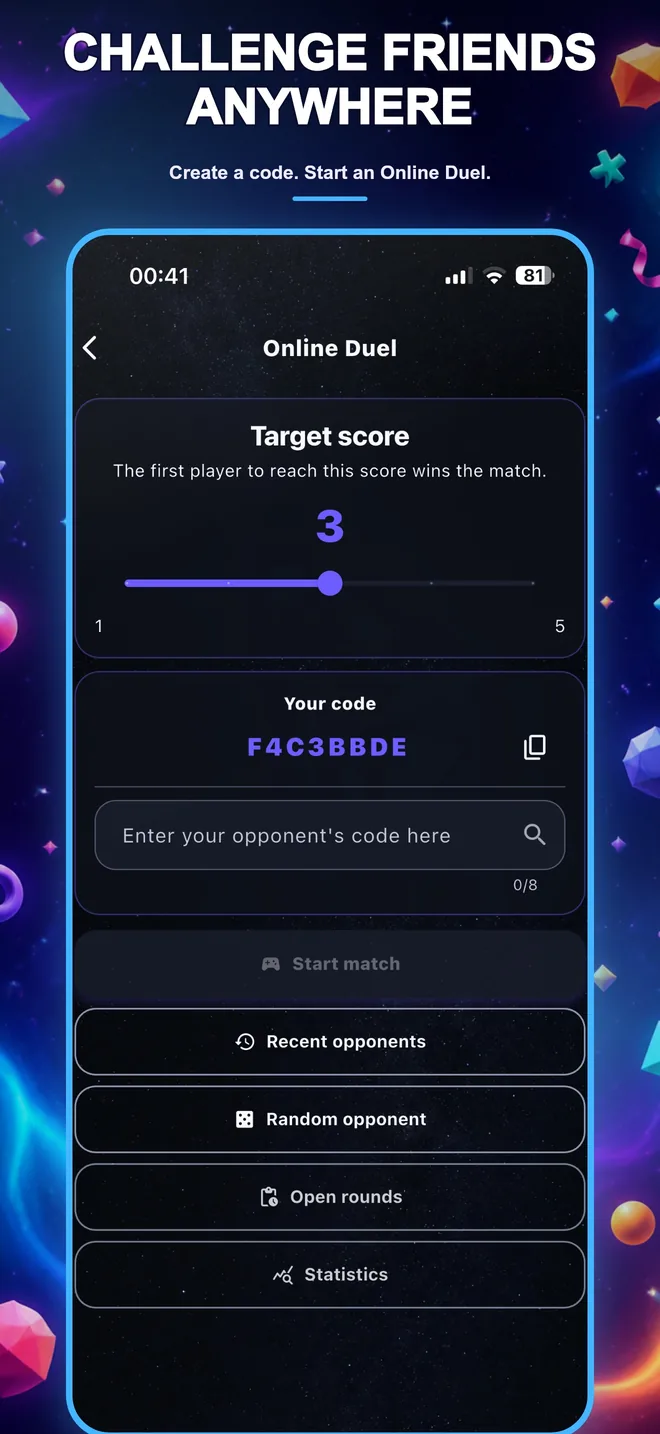
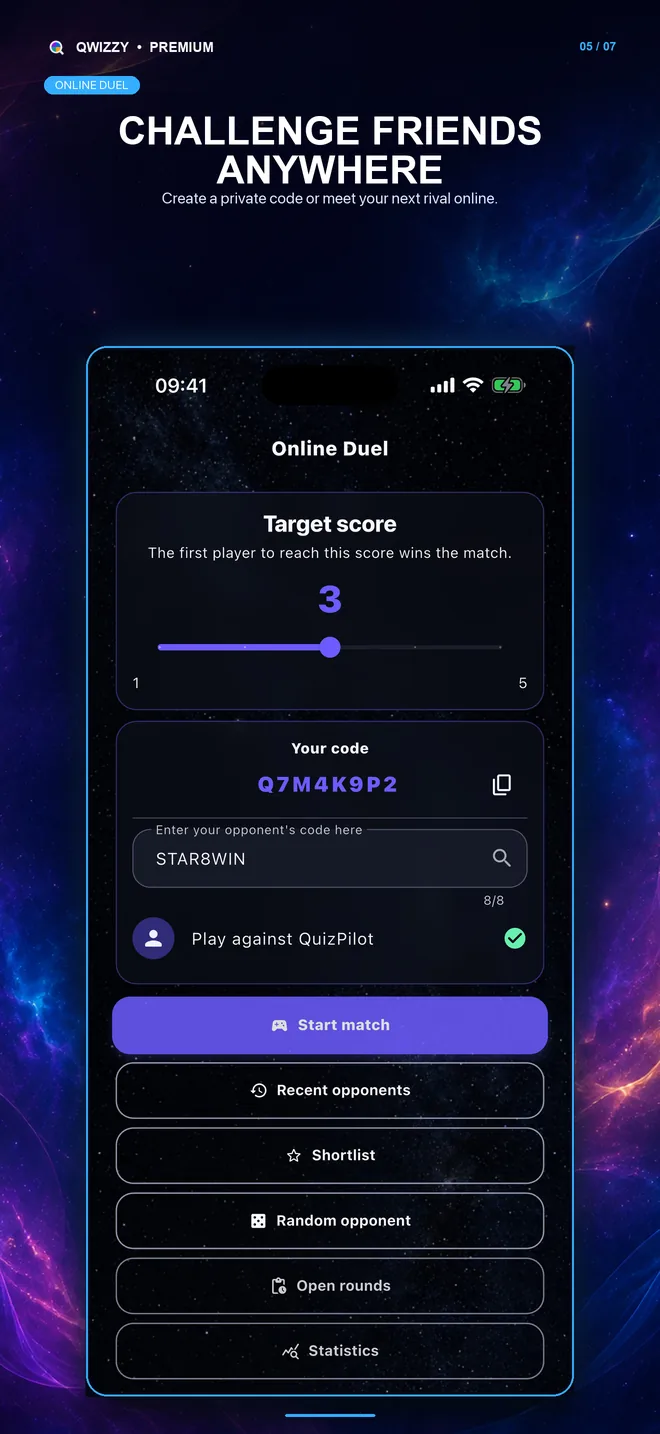
Update Qwizzy website screenshots

diff --git a/public/assets/js/i18n.js b/public/assets/js/i18n.js
@@ -178,12 +178,20 @@ const rows = {
   "Seven ways to play": ["Sieben Spielmöglichkeiten", "Siete formas de jugar", "Sette modi di giocare"],
   "Pick your challenge.": ["Wähle deine Herausforderung.", "Elige tu desafío.", "Scegli la tua sfida."],
   "Play Classic, Sudden Death, 3 Hearts, local or online duels, Last Man Standing and Moderator mode.": ["Spiele Classic, Sudden Death, 3 Hearts, lokale oder Online-Duelle, Last Man Standing und den Moderatormodus.", "Juega a Classic, Sudden Death, 3 Hearts, duelos locales o en línea, Last Man Standing y el modo Moderador.", "Gioca a Classic, Sudden Death, 3 Hearts, duelli locali o online, Last Man Standing e modalità Moderatore."],
+  "3 Hearts": ["3 Herzen", "3 corazones", "3 cuori"],
+  "Play smart. Stay in the game.": ["Spiel clever. Bleib im Spiel.", "Juega con inteligencia. Sigue en la partida.", "Gioca d'astuzia. Resta in partita."],
+  "Three lives, a running timer and a 50:50 lifeline turn every answer into a tactical choice.": ["Drei Leben, ein laufender Timer und ein 50:50-Joker machen jede Antwort zu einer taktischen Entscheidung.", "Tres vidas, un temporizador en marcha y un comodín 50:50 convierten cada respuesta en una decisión táctica.", "Tre vite, un timer attivo e un aiuto 50:50 trasformano ogni risposta in una scelta tattica."],
+  "Your style": ["Dein Stil", "Tu estilo", "Il tuo stile"],
+  "Make every question your own.": ["Mach jede Frage zu deiner.", "Haz tuya cada pregunta.", "Rendi ogni domanda davvero tua."],
+  "Mix question and answer colors to create a quiz experience that feels unmistakably yours.": ["Kombiniere Farben für Fragen und Antworten und gestalte ein Quiz, das unverkennbar zu dir passt.", "Combina los colores de preguntas y respuestas para crear una experiencia de juego inconfundiblemente tuya.", "Combina i colori di domande e risposte per creare un'esperienza quiz inconfondibilmente tua."],
   "Timed rounds": ["Runden auf Zeit", "Rondas contrarreloj", "Round a tempo"],
   "Think fast. Score big.": ["Schnell denken. Groß punkten.", "Piensa rápido. Consigue muchos puntos.", "Pensa in fretta. Fai tanti punti."],
   "Questions span every topic, while the timer and lifelines keep each round moving.": ["Die Fragen decken jedes Thema ab, während Timer und Joker jede Runde in Bewegung halten.", "Las preguntas abarcan todos los temas, mientras el temporizador y los comodines mantienen el ritmo de cada ronda.", "Le domande spaziano tra tutti gli argomenti, mentre il timer e gli aiuti mantengono alto il ritmo di ogni round."],
   "Sudden Death": ["Sudden Death", "Muerte súbita", "Sudden Death"],
   "One mistake. Game over.": ["Ein Fehler. Spiel vorbei.", "Un error. Fin de la partida.", "Un errore. Partita finita."],
   "Every answer counts in the most unforgiving solo mode. Stay sharp and chase a new high score.": ["Im härtesten Solomodus zählt jede Antwort. Bleib konzentriert und jage einen neuen Highscore.", "Cada respuesta cuenta en el modo individual más exigente. Mantente alerta y consigue una nueva puntuación récord.", "Ogni risposta conta nella modalità in solitaria più spietata. Resta concentrato e punta a un nuovo record."],
+  "One life. Every second counts.": ["Ein Leben. Jede Sekunde zählt.", "Una vida. Cada segundo cuenta.", "Una vita. Ogni secondo conta."],
+  "Ten seconds, one answer and no room for mistakes. Stay sharp and chase a new high score.": ["Zehn Sekunden, eine Antwort und kein Platz für Fehler. Bleib konzentriert und jage einen neuen Highscore.", "Diez segundos, una respuesta y ningún margen de error. Mantente alerta y consigue una nueva puntuación récord.", "Dieci secondi, una risposta e nessun margine d'errore. Resta concentrato e punta a un nuovo record."],
   "Online Duel": ["Online-Duell", "Duelo en línea", "Duello online"],
   "Challenge friends anywhere.": ["Fordere Freunde überall heraus.", "Desafía a tus amigos estés donde estés.", "Sfida gli amici ovunque."],
   "Create a code, invite a friend or find a random opponent and play a round whenever it suits you.": ["Erstelle einen Code, lade einen Freund ein oder finde einen zufälligen Gegner und spiele eine Runde, wann immer es dir passt.", "Crea un código, invita a un amigo o encuentra un rival al azar y juega una ronda cuando quieras.", "Crea un codice, invita un amico o trova un avversario casuale e gioca un round quando vuoi."],
@@ -239,12 +247,15 @@ const rows = {
   "See the products": ["Produkte ansehen", "Ver los productos", "Scopri i prodotti"],
   "Skip to content": ["Zum Inhalt springen", "Saltar al contenido", "Vai al contenuto"],
   "Generis Data Base crest": ["Wappen von Generis Data Base", "Escudo de Generis Data Base", "Stemma di Generis Data Base"],
-  "Qwizzy overview showing its available quiz modes": ["Qwizzy-Übersicht mit den verfügbaren Spielmodi", "Vista general de Qwizzy con los modos de juego disponibles", "Panoramica di Qwizzy con le modalità di gioco disponibili"],
+  "Updated Qwizzy home screen showing its available quiz modes": ["Aktualisierter Qwizzy-Startbildschirm mit den verfügbaren Spielmodi", "Pantalla de inicio actualizada de Qwizzy con los modos de juego disponibles", "Schermata iniziale aggiornata di Qwizzy con le modalità di gioco disponibili"],
+  "A Qwizzy 3 Hearts round with timer and active 50:50 lifeline": ["Eine Qwizzy-Runde in 3 Herzen mit Timer und aktivem 50:50-Joker", "Una ronda de 3 corazones de Qwizzy con temporizador y comodín 50:50 activo", "Un round 3 cuori di Qwizzy con timer e aiuto 50:50 attivo"],
+  "A customized Qwizzy question screen with individually colored cards": ["Ein individuell gestalteter Qwizzy-Fragebildschirm mit verschiedenfarbigen Karten", "Una pantalla de preguntas personalizada de Qwizzy con tarjetas de distintos colores", "Una schermata domanda personalizzata di Qwizzy con schede di colori diversi"],
+  "A challenging timed Sudden Death question in Qwizzy": ["Eine anspruchsvolle Sudden-Death-Frage auf Zeit in Qwizzy", "Una exigente pregunta contrarreloj de Muerte súbita en Qwizzy", "Una difficile domanda a tempo di Sudden Death in Qwizzy"],
   "Qwizzy screen showing the available quiz modes": ["Qwizzy-Bildschirm mit den verfügbaren Spielmodi", "Pantalla de Qwizzy con los modos de juego disponibles", "Schermata di Qwizzy con le modalità di gioco disponibili"],
   "A timed geography question in Qwizzy": ["Eine zeitbegrenzte Geografiefrage in Qwizzy", "Una pregunta de geografía cronometrada en Qwizzy", "Una domanda di geografia a tempo in Qwizzy"],
   "A Sudden Death question in Qwizzy": ["Eine Sudden-Death-Frage in Qwizzy", "Una pregunta de Muerte súbita en Qwizzy", "Una domanda Sudden Death in Qwizzy"],
   "Qwizzy Online Duel setup with friend code and opponent options": ["Qwizzy-Online-Duell mit Freundescode und Gegnerauswahl", "Configuración del duelo en línea de Qwizzy con código de amigo y opciones de rival", "Configurazione del duello online di Qwizzy con codice amico e opzioni avversario"],
-  "Qwizzy Last Man Standing setup for up to ten players": ["Qwizzy Last Man Standing für bis zu zehn Spieler", "Configuración de Último en pie de Qwizzy para hasta diez jugadores", "Configurazione Last Man Standing di Qwizzy per un massimo di dieci giocatori"]
+  "Qwizzy Last Man Standing setup with ten named players": ["Qwizzy Last Man Standing mit zehn benannten Spielern", "Configuración de Último en pie de Qwizzy con diez jugadores identificados", "Configurazione Last Man Standing di Qwizzy con dieci giocatori nominati"]
 };
 
 const dictionaries = Object.fromEntries(LANGS.slice(1).map((lang, i) => [lang, Object.fromEntries(Object.entries(rows).map(([key, values]) => [key, values[i]]))]));

diff --git a/public/qwizzy.html b/public/qwizzy.html
@@ -11,7 +11,7 @@
 <meta property="og:title" content="Qwizzy — quiz app by Generis Data Base">
 <meta property="og:description" content="14,520 curated questions across 25 categories and 33 language variants.">
 <meta property="og:url" content="https://generisdatabase.com/qwizzy">
-<meta property="og:image" content="https://generisdatabase.com/assets/img/qwizzy/01-ready-to-get-qwizzical.jpg">
+<meta property="og:image" content="https://generisdatabase.com/assets/img/qwizzy/01-quiz-night-starts-here.jpg">
 <link rel="canonical" href="https://generisdatabase.com/qwizzy">
 <script>document.documentElement.dataset.theme = localStorage.getItem("gdb-theme") || "dark";</script>
 <link rel="stylesheet" href="/assets/css/site.css">
@@ -86,8 +86,8 @@
         </div>
         <div class="qwizzy-hero-art tilt" data-reveal data-d="160">
           <picture class="responsive-shot">
-            <source type="image/webp" srcset="/assets/img/qwizzy/01-ready-to-get-qwizzical-660.webp 660w, /assets/img/qwizzy/01-ready-to-get-qwizzical.webp 1320w" sizes="(max-width: 780px) 88vw, 420px">
-            <img src="/assets/img/qwizzy/01-ready-to-get-qwizzical.jpg" alt="Qwizzy overview showing its available quiz modes" width="1320" height="2868" decoding="async" fetchpriority="high">
+            <source type="image/webp" srcset="/assets/img/qwizzy/01-quiz-night-starts-here-660.webp 660w, /assets/img/qwizzy/01-quiz-night-starts-here.webp 1320w" sizes="(max-width: 780px) 88vw, 420px">
+            <img src="/assets/img/qwizzy/01-quiz-night-starts-here.jpg" alt="Updated Qwizzy home screen showing its available quiz modes" width="1320" height="2868" decoding="async" fetchpriority="high">
           </picture>
         </div>
       </div>
@@ -106,37 +106,37 @@
       <div class="qwizzy-feature-grid">
         <article class="qwizzy-feature" data-reveal>
           <div class="qwizzy-feature-copy">
-            <span class="badge">Seven ways to play</span>
-            <h3 class="h-md">Pick your challenge.</h3>
-            <p>Play Classic, Sudden Death, 3 Hearts, local or online duels, Last Man Standing and Moderator mode.</p>
+            <span class="badge">3 Hearts</span>
+            <h3 class="h-md">Play smart. Stay in the game.</h3>
+            <p>Three lives, a running timer and a 50:50 lifeline turn every answer into a tactical choice.</p>
           </div>
           <picture class="responsive-shot">
-            <source type="image/webp" srcset="/assets/img/qwizzy/02-pick-your-challenge-660.webp 660w, /assets/img/qwizzy/02-pick-your-challenge.webp 1320w" sizes="(max-width: 900px) 88vw, 380px">
-            <img src="/assets/img/qwizzy/02-pick-your-challenge.jpg" alt="Qwizzy screen showing the available quiz modes" width="1320" height="2868" loading="lazy" decoding="async">
+            <source type="image/webp" srcset="/assets/img/qwizzy/02-play-smart-stay-in-the-game-660.webp 660w, /assets/img/qwizzy/02-play-smart-stay-in-the-game.webp 1320w" sizes="(max-width: 900px) 88vw, 380px">
+            <img src="/assets/img/qwizzy/02-play-smart-stay-in-the-game.jpg" alt="A Qwizzy 3 Hearts round with timer and active 50:50 lifeline" width="1320" height="2868" loading="lazy" decoding="async">
           </picture>
         </article>
 
         <article class="qwizzy-feature" data-reveal data-d="90">
           <div class="qwizzy-feature-copy">
-            <span class="badge">Timed rounds</span>
-            <h3 class="h-md">Think fast. Score big.</h3>
-            <p>Questions span every topic, while the timer and lifelines keep each round moving.</p>
+            <span class="badge">Your style</span>
+            <h3 class="h-md">Make every question your own.</h3>
+            <p>Mix question and answer colors to create a quiz experience that feels unmistakably yours.</p>
           </div>
           <picture class="responsive-shot">
-            <source type="image/webp" srcset="/assets/img/qwizzy/03-think-fast-score-big-660.webp 660w, /assets/img/qwizzy/03-think-fast-score-big.webp 1320w" sizes="(max-width: 900px) 88vw, 380px">
-            <img src="/assets/img/qwizzy/03-think-fast-score-big.jpg" alt="A timed geography question in Qwizzy" width="1320" height="2868" loading="lazy" decoding="async">
+            <source type="image/webp" srcset="/assets/img/qwizzy/03-make-every-question-yours-660.webp 660w, /assets/img/qwizzy/03-make-every-question-yours.webp 1320w" sizes="(max-width: 900px) 88vw, 380px">
+            <img src="/assets/img/qwizzy/03-make-every-question-yours.jpg" alt="A customized Qwizzy question screen with individually colored cards" width="1320" height="2868" loading="lazy" decoding="async">
           </picture>
         </article>
 
         <article class="qwizzy-feature" data-reveal data-d="180">
           <div class="qwizzy-feature-copy">
             <span class="badge">Sudden Death</span>
-            <h3 class="h-md">One mistake. Game over.</h3>
-            <p>Every answer counts in the most unforgiving solo mode. Stay sharp and chase a new high score.</p>
+            <h3 class="h-md">One life. Every second counts.</h3>
+            <p>Ten seconds, one answer and no room for mistakes. Stay sharp and chase a new high score.</p>
           </div>
           <picture class="responsive-shot">
-            <source type="image/webp" srcset="/assets/img/qwizzy/04-one-mistake-game-over-660.webp 660w, /assets/img/qwizzy/04-one-mistake-game-over.webp 1320w" sizes="(max-width: 900px) 88vw, 380px">
-            <img src="/assets/img/qwizzy/04-one-mistake-game-over.jpg" alt="A Sudden Death question in Qwizzy" width="1320" height="2868" loading="lazy" decoding="async">
+            <source type="image/webp" srcset="/assets/img/qwizzy/04-every-second-counts-660.webp 660w, /assets/img/qwizzy/04-every-second-counts.webp 1320w" sizes="(max-width: 900px) 88vw, 380px">
+            <img src="/assets/img/qwizzy/04-every-second-counts.jpg" alt="A challenging timed Sudden Death question in Qwizzy" width="1320" height="2868" loading="lazy" decoding="async">
           </picture>
         </article>
 
@@ -159,8 +159,8 @@
             <p>Bring together two to ten players on one device and keep answering until only one remains.</p>
           </div>
           <picture class="responsive-shot">
-            <source type="image/webp" srcset="/assets/img/qwizzy/06-last-one-standing-660.webp 660w, /assets/img/qwizzy/06-last-one-standing.webp 1320w" sizes="(max-width: 900px) 88vw, 380px">
-            <img src="/assets/img/qwizzy/06-last-one-standing.jpg" alt="Qwizzy Last Man Standing setup for up to ten players" width="1320" height="2868" loading="lazy" decoding="async">
+            <source type="image/webp" srcset="/assets/img/qwizzy/06-last-one-standing-wins-660.webp 660w, /assets/img/qwizzy/06-last-one-standing-wins.webp 1320w" sizes="(max-width: 900px) 88vw, 380px">
+            <img src="/assets/img/qwizzy/06-last-one-standing-wins.jpg" alt="Qwizzy Last Man Standing setup with ten named players" width="1320" height="2868" loading="lazy" decoding="async">
           </picture>
         </article>
       </div>
